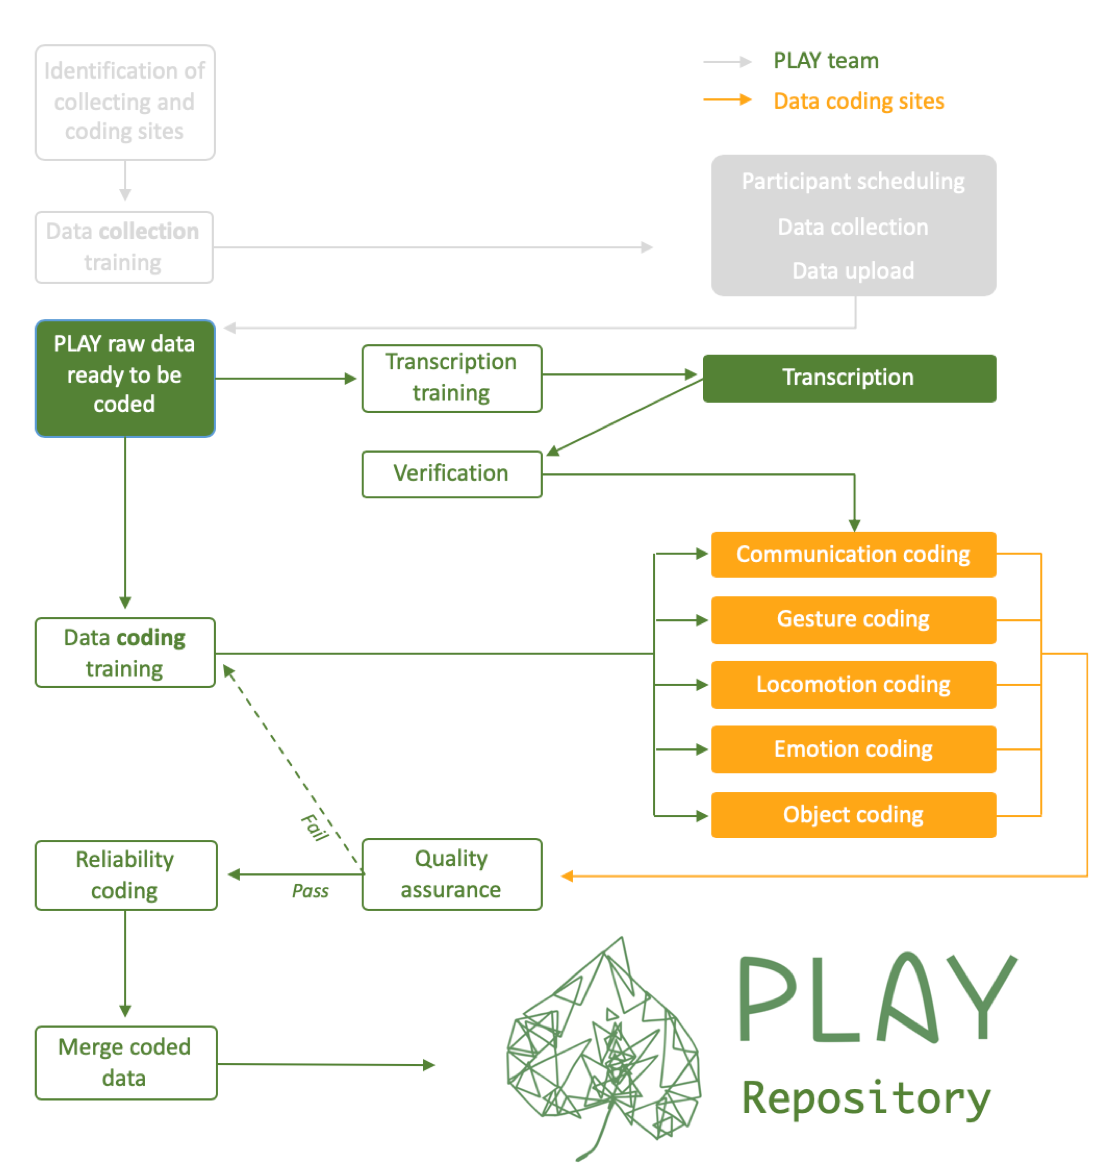
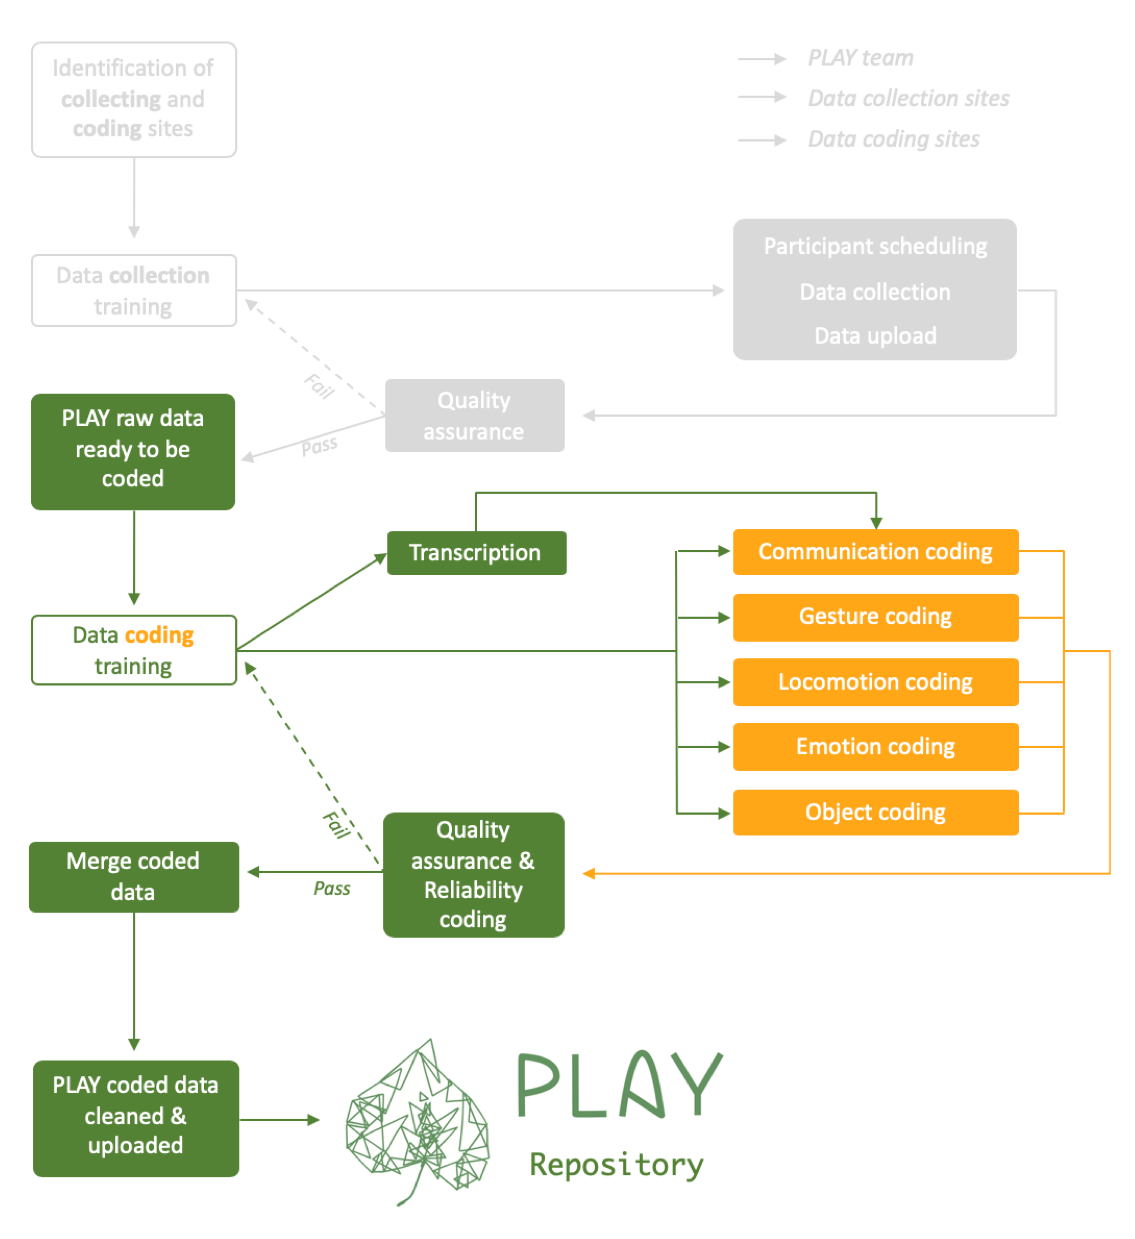
- Added image to landing page - Solved issues with video code (still need to add more videos) - Updated process flow diagrams (this is now v6) - Minor changes to a few other pages

diff --git a/docs/recruitment.html b/docs/recruitment.html
@@ -489,32 +489,42 @@ div.tocify {
 <div id="scheduling-visit" class="section level2">
 <h2>1. Scheduling Visit</h2>
 <p><em>To schedule a visit, you will be making two phone calls to each family: the initial recruiting call and the confirmation call (if the family agrees to participate). Depending on the availability of the mother, you will complete the <a href="link%20to%20questionnaires">participant paperwork</a></em></p>
+<!--
+List of videos in volume (protocol materials):
+https://nyu.databrary.org/volume/876/slot/35422/-
+
+Original link in Rick's site:
+https://nyu.databrary.org/slot/14765/0,79273/asset/64898/download?inline=true
+
+
+12mc
+https://nyu.databrary.org/slot/35422/0,440000/asset/174038/download?inline=true
+
+12mw
+https://nyu.databrary.org/slot/35422/0,381000/asset/174038/download?inline=true
+
+18m
+https://nyu.databrary.org/slot/35422/asset/174040/download?inline=true
+
+24m
+https://nyu.databrary.org/slot/35422/asset/174041/download?inline=true
+-->
 <div id="initial-recruiting-call" class="section level3">
 <h3>1.1 Initial recruiting call</h3>
-<ol style="list-style-type: decimal">
-<li>12m crawler
-<div>
-<button size="xs" type="button" data-toggle="collapse" data-target="#collection-scheduling-confirmingvisit-12mc">
+<!-- Indenting this code will mess up the output - markdown seems to want to read indented code as textboxes -->
+<!-- When knitting, make sure to "open in browswer" to see video - need to be logged into DB!! -->
+<div class="videobuttons">
+<img src="img/icon-video.png" width="25">
+<button size="xs" type="button" data-toggle="collapse" data-target="#collection-scheduling-initialrecruitingcall">
 Video
 </button>
 </div>
-<div id="collection-scheduling-confirmingvisit-12mc" class="collapse">
-<video width="100%" controls preload="none">
-<source src="https://nyu.databrary.org/slot/14765/0,79273/asset/64898/download?inline=true" type="video/mp4"> Your browser does not support html5 video.
-</video>
-</div></li>
-<li>12m walker
-<div>
-<button size="xs" type="button" data-toggle="collapse" data-target="#collection-scheduling-confirmingvisit-12mw">
-Video
-</button>
-</div>
-<div class="collapse" id="collection-scheduling-confirmingvisit-12mw">
-<video width="100%" controls preload="none">
-<source src="https://nyu.databrary.org/volume/876/slot/35422/441064,822568/asset/174039" type="video/mp4">
+<div id="collection-scheduling-initialrecruitingcall" class="collapse" aria-expanded="false" style="height: 0px;">
+<video width="100%" controls="" preload="none">
+<source src="https://nyu.databrary.org/slot/14765/0,79273/asset/64898/download?inline=true" type="video/mp4">
 Your browser does not support html5 video. </video>
-</div></li>
-</ol>
+</div>
+<p><br></p>
 <p><say>Hi, may I speak with [MOM]? My name is [CALLER NAME] and I’m calling from [LAB] about a home study where we’re looking at how moms and babies interact with each other. We’d be visitng your home and you’d receive $25 at the end of the visit for your participation. Can we tell you about it? First, I have some questions to see if you and [CHILD] qualify for the study. Does [CHILD]have any siblings?</say></p>
 <ul>
 <li>→ <em>If yes: <strong>end call</strong>.</em> <say>In this study, we are currently looking for only-children. Would it be alright if we contacted you for other studies in the future?</say></li>
@@ -569,10 +579,50 @@ Your browser does not support html5 video. </video>
 </div>
 <div id="confirming-the-visit-1-day-before-visit" class="section level3">
 <h3>1.3 Confirming the visit (1 day before visit)</h3>
-<p>[insert 4 videos here]</p>
-<p></br> <video width="320" height="240" controls> <source src="https://nyu.databrary.org/volume/876/slot/35422/asset/174038" type="video/mp4"> Your browser does not support the video tag. </video> </br></p>
-<p></br> <video width="320" height="240" controls> <source src="https://nyu.databrary.org/slot/14765/0,79273/asset/64898/download?inline=true" type="video/mp4"> Your browser does not support the video tag. </video> </br></p>
-<p><a href="https://nyu.databrary.org/volume/876/slot/35422/-?asset=174038" class="uri">https://nyu.databrary.org/volume/876/slot/35422/-?asset=174038</a> <a href="https://nyu.databrary.org/volume/876/slot/35422/-?asset=174038" class="uri">https://nyu.databrary.org/volume/876/slot/35422/-?asset=174038</a></p>
+<div class="videobuttons">
+<img src="img/icon-video.png" width="25">
+<button size="xs" type="button" data-toggle="collapse" data-target="#collection-scheduling-confirmingvisit-12mc">
+12m crawler
+</button>
+</div>
+<div id="collection-scheduling-confirmingvisit-12mc" class="collapse" aria-expanded="false" style="height: 0px;">
+<video width="100%" controls="" preload="none">
+<source src="https://nyu.databrary.org/slot/35422/0,440000/asset/174038/download?inline=true" type="video/mp4">
+Your browser does not support html5 video. </video>
+</div>
+<div class="videobuttons">
+<img src="img/icon-video.png" width="25">
+<button size="xs" type="button" data-toggle="collapse" data-target="#collection-scheduling-confirmingvisit-12mw">
+12m walker
+</button>
+</div>
+<div id="collection-scheduling-confirmingvisit-12mw" class="collapse" aria-expanded="false" style="height: 0px;">
+<video width="100%" controls="" preload="none">
+<source src="https://nyu.databrary.org/slot/35422/0,381000/asset/174038/download?inline=true" type="video/mp4">
+Your browser does not support html5 video. </video>
+</div>
+<div class="videobuttons">
+<img src="img/icon-video.png" width="25">
+<button size="xs" type="button" data-toggle="collapse" data-target="#collection-scheduling-confirmingvisit-18m">
+        18m        
+</button>
+</div>
+<div id="collection-scheduling-confirmingvisit-18m" class="collapse" aria-expanded="false" style="height: 0px;">
+<video width="100%" controls="" preload="none">
+<source src="https://nyu.databrary.org/slot/35422/asset/174040/download?inline=true" type="video/mp4">
+Your browser does not support html5 video. </video>
+</div>
+<div class="videobuttons">
+<img src="img/icon-video.png" width="25">
+<button size="xs" type="button" data-toggle="collapse" data-target="#collection-scheduling-confirmingvisit-24m">
+        24m        
+</button>
+</div>
+<div id="collection-scheduling-confirmingvisit-24m" class="collapse" aria-expanded="false" style="height: 0px;">
+<video width="100%" controls="" preload="none">
+<source src="https://nyu.databrary.org/slot/35422/asset/174041/download?inline=true" type="video/mp4">
+Your browser does not support html5 video. </video>
+</div>
 <p><say>Hi, may I speak with [MOM]? My name is [NAME] and I’m calling from [LAB] to confirm our visit with you and [CHILD] on [DATE].</say></p>
 <ul>
 <li>→ <em>If phone questionnaire was not completed during initial phone call:</em> <say>Before the visit, I’d like to ask you a few questions. It will only take 5 minutes of your time. Just as a reminder, the data we collect from you now and during the visit, will be shared on a web-based library only available to researchers like the professor who runs this lab.</say>

diff --git a/docs/faq.html b/docs/faq.html
@@ -574,8 +574,8 @@ To participate in this study, we would ask to be able to share the video with ot
 <li>If child persists in interacting with you, keep recording. Be sure to make notes in Clean Up.</li>
 </ul>
 </div>
-<div id="what-if-doorbell-rings-for-the-dog-walker-delivery-etc.-can-mom-go-answer-it-dog-walker-coming-over-delivery" class="section level5">
-<h5>What if doorbell rings for the dog walker, delivery, etc.? Can mom go answer it? Dog walker coming over? Delivery?</h5>
+<div id="what-if-doorbell-rings-for-the-dog-walker-delivery-etc." class="section level5">
+<h5>What if doorbell rings for the dog walker, delivery, etc.?</h5>
 <ul>
 <li>Do not record the person coming. Try to still record baby and mom from discrete angle. If unable to do so without also capturing other person, record the floor during that time so we can account for that time.</li>
 <li>If mom asks to stop recording, then stop and add extra time.</li>

diff --git a/docs/index.html b/docs/index.html
@@ -322,7 +322,9 @@ $(document).ready(function () {
 </div>
 
 
-<p><img src="img/PLAY-logo.png" width="400" /></p>
+<p><br></p>
+<p><img src="img/PLAY-logo.png" width="400" / hspace="5"></p>
+<p><img src="img/PLAY-momchild-long.png" / hspace="5"></p>
 <div id="the-play-learning-across-a-year-play-project" class="section level1">
 <h1>The Play &amp; Learning Across a Year (PLAY) project</h1>
 <p>The PLAY project is a collaborative research initiative by 65 researchers from 45 universities across the United States and Canada. It serves as a model system for doing development science from a “big data” approach. Natural free play represents the foundation of infant learning, but we know little about how infants play, how play unfolds in real time and across development, and how individual and group differences promote infant learning and development through play.</p>

diff --git a/docs/faq-collection.html b/docs/faq-collection.html
@@ -539,8 +539,8 @@ div.tocify {
 <li>If child persists in interacting with you, keep recording. Be sure to make notes in Clean Up.</li>
 </ul>
 </div>
-<div id="what-if-doorbell-rings-for-the-dog-walker-delivery-etc.-can-mom-go-answer-it-dog-walker-coming-over-delivery" class="section level5">
-<h5>What if doorbell rings for the dog walker, delivery, etc.? Can mom go answer it? Dog walker coming over? Delivery?</h5>
+<div id="what-if-doorbell-rings-for-the-dog-walker-delivery-etc." class="section level5">
+<h5>What if doorbell rings for the dog walker, delivery, etc.?</h5>
 <ul>
 <li>Do not record the person coming. Try to still record baby and mom from discrete angle. If unable to do so without also capturing other person, record the floor during that time so we can account for that time.</li>
 <li>If mom asks to stop recording, then stop and add extra time.</li>

diff --git a/docs/people.html b/docs/people.html
@@ -967,7 +967,7 @@ Yurovsky        Dan          University of Chicago                        Collec
 </div>
 <div id="advisory-board" class="section level2">
 <h2>Advisory Board</h2>
-<p><List everyone here></p>
+<p>Coming soon!</p>
 </div>
 
 <hr>

diff --git a/css/play.css b/css/play.css
@@ -23,6 +23,14 @@ say {
 say:before { content: open-quote; }
 say:after  { content: close-quote; }
 
+
+.videobuttons {
+  display: inline-block;
+  width: 100px;
+  height:50px;
+  margin: 1em;
+}
+
 .reveal section p {
   color: green;
 }

diff --git a/docs/css/play.css b/docs/css/play.css
@@ -23,6 +23,14 @@ say {
 say:before { content: open-quote; }
 say:after  { content: close-quote; }
 
+
+.videobuttons {
+  display: inline-block;
+  width: 100px;
+  height:50px;
+  margin: 1em;
+}
+
 .reveal section p {
   color: green;
 }
